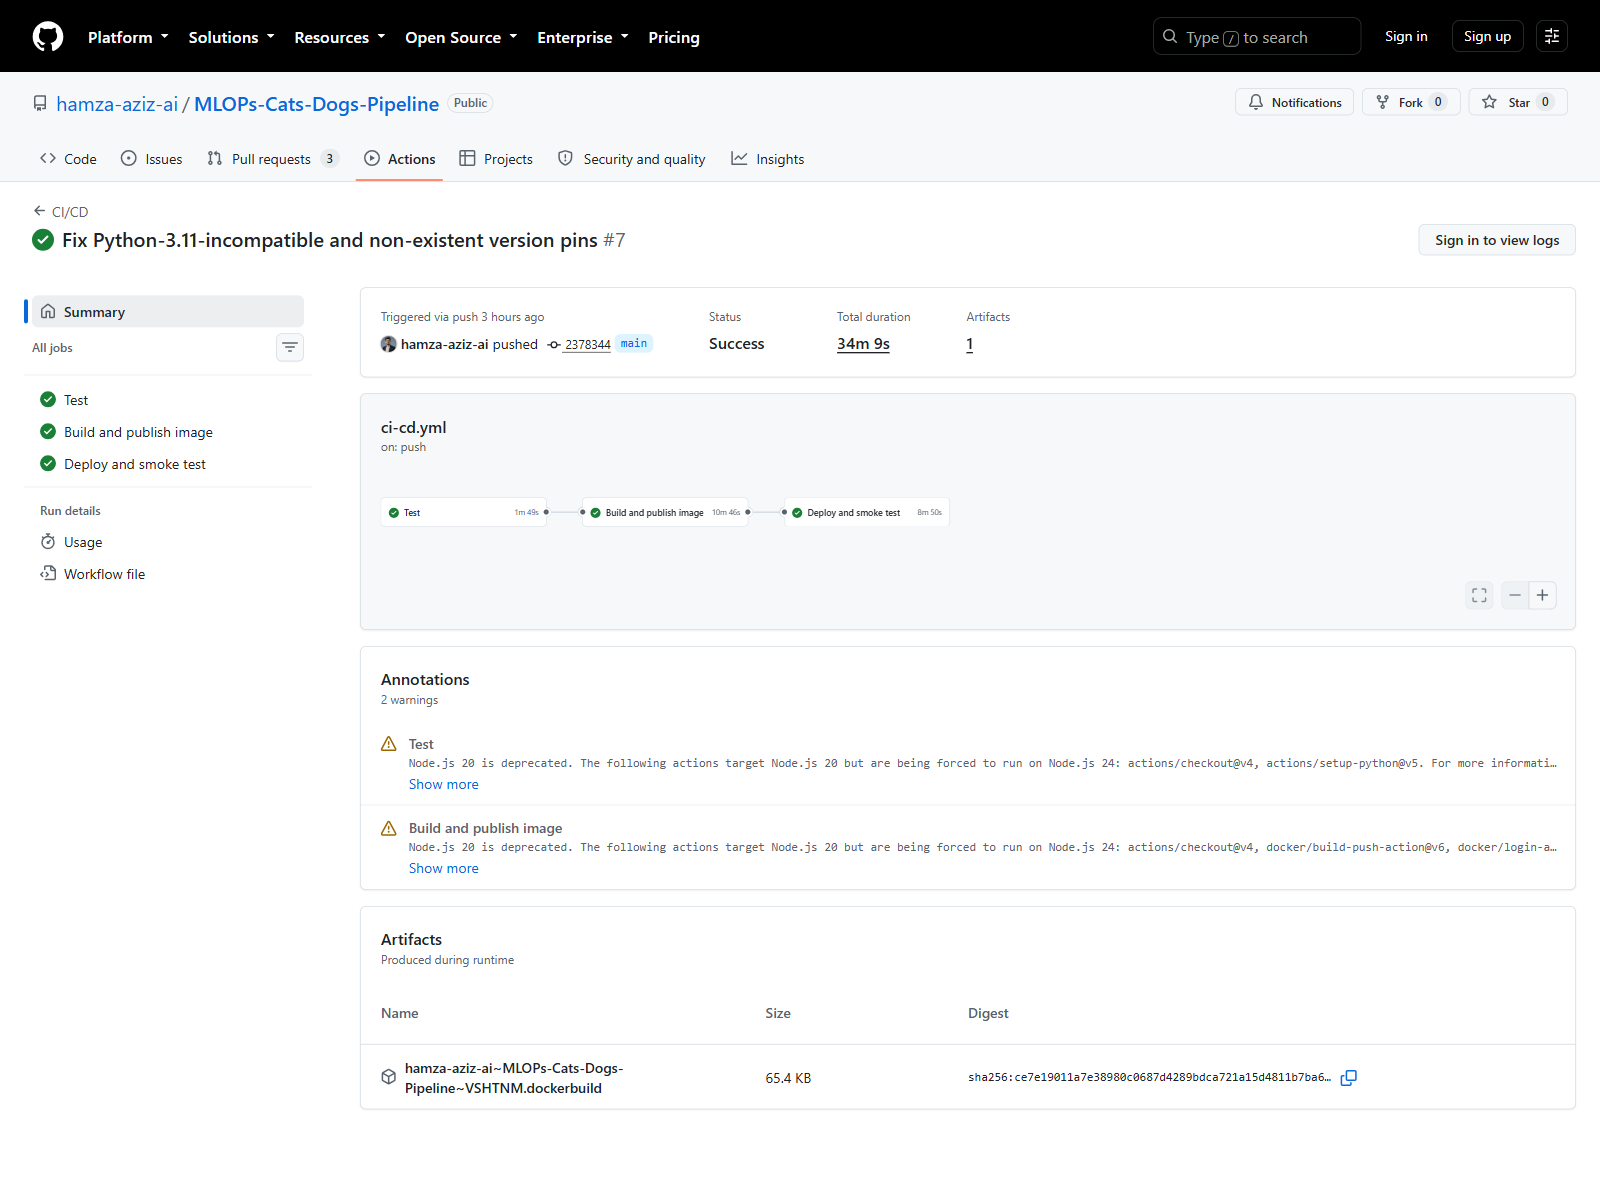
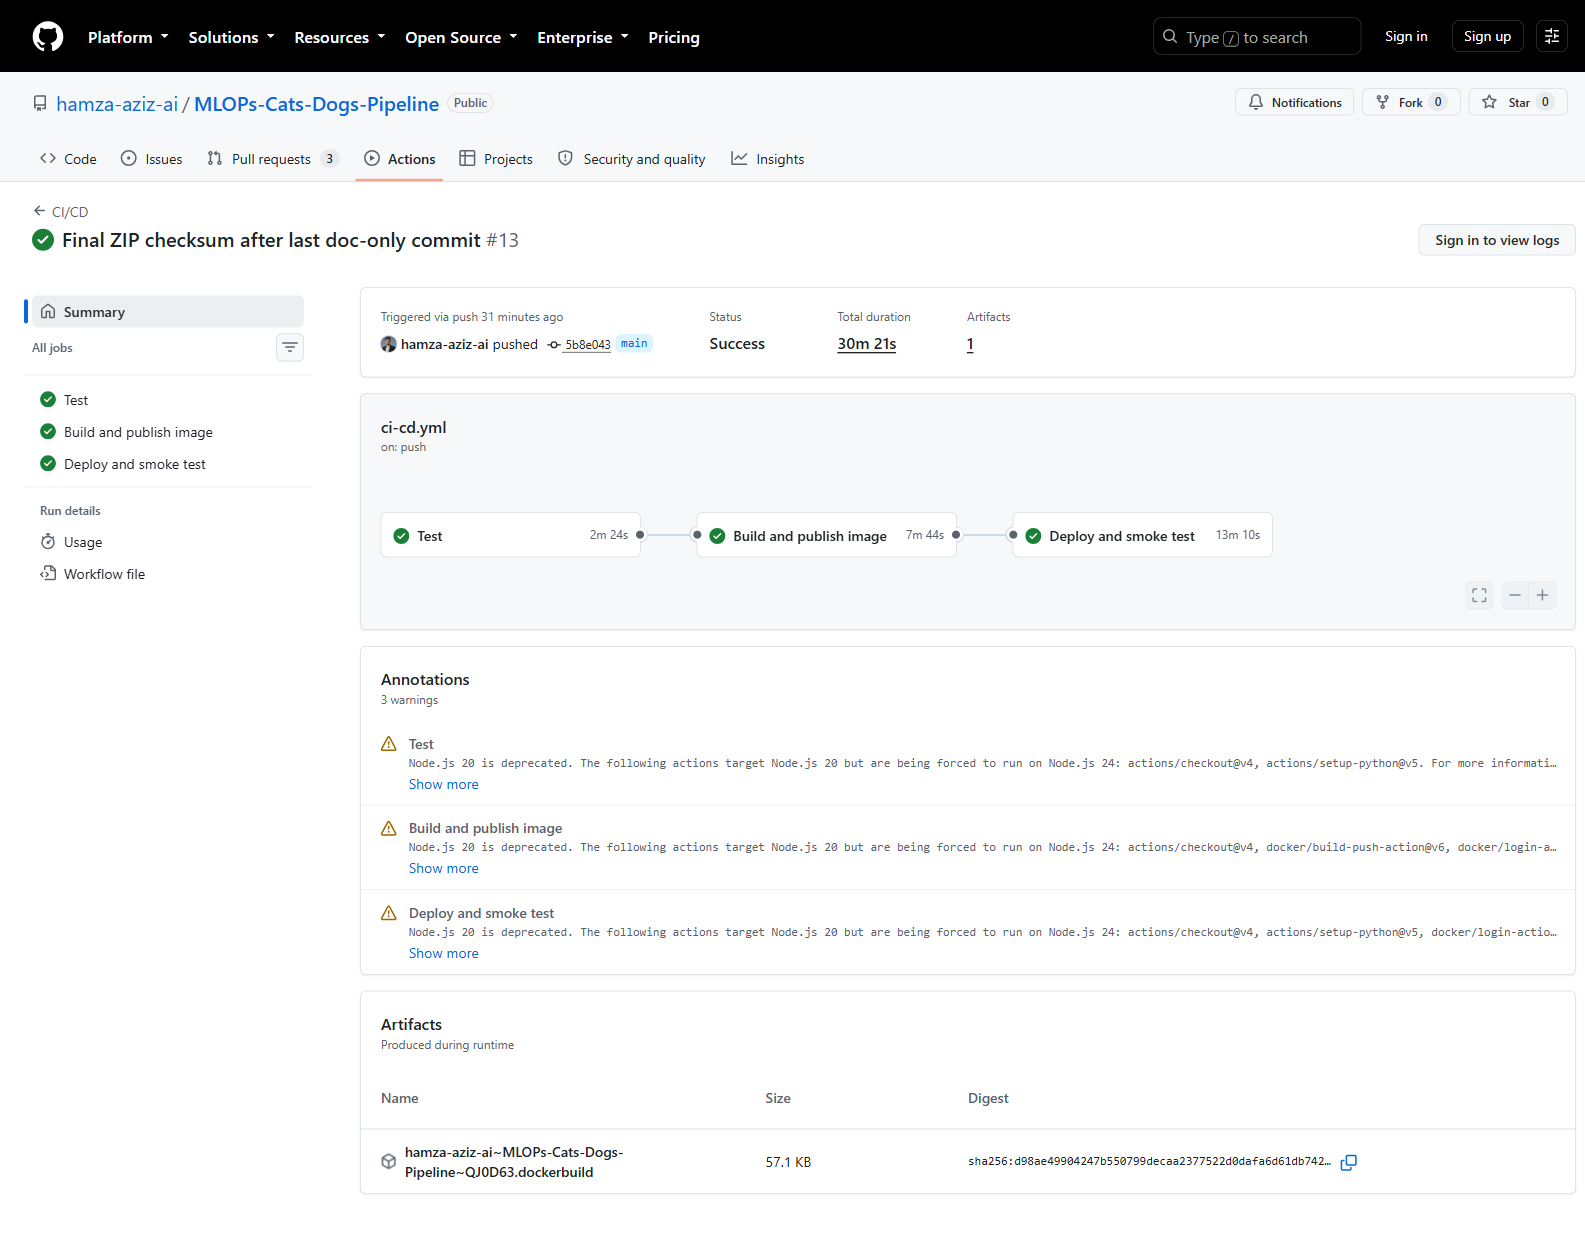
Point evidence at the actual final deployed build
Each doc-only push triggers its own CI/CD run with a fresh image
digest, so the digest/run recorded a few commits ago no longer matched
what's actually live. Updated CI run URL, deploy job URL, and image
digest to the build that's genuinely running right now (verified via
`docker inspect` against the deployed container), and retook the
GitHub Actions/GHCR screenshots against this final pushed state.

This is the last evidence-sync commit -- chasing the digest through
its own resulting CI run indefinitely doesn't converge, the same way
the ZIP checksum can't include the commit that records it.

diff --git a/SUBMISSION_REPORT.md b/SUBMISSION_REPORT.md
@@ -11,8 +11,8 @@
 | Assignment | Assignment 2 |
 | Semester tag | S2-25 |
 | GitHub repository | `https://github.com/hamza-aziz-ai/MLOPs-Cats-Dogs-Pipeline` |
-| CI run | `https://github.com/hamza-aziz-ai/MLOPs-Cats-Dogs-Pipeline/actions/runs/31689507647` |
-| Container image | `https://github.com/hamza-aziz-ai/MLOPs-Cats-Dogs-Pipeline/pkgs/container/mlops-cats-dogs-pipeline`, digest `sha256:02029143e1931a74b0deb3ac92fae06f2446b54ec00b4b0ba1319f20341ba697` |
+| CI run | `https://github.com/hamza-aziz-ai/MLOPs-Cats-Dogs-Pipeline/actions/runs/31706209711` |
+| Container image | `https://github.com/hamza-aziz-ai/MLOPs-Cats-Dogs-Pipeline/pkgs/container/mlops-cats-dogs-pipeline`, digest `sha256:8d6f10f8f231fe565944b5b4bd9bddd0a9a946438c879ccc8572d80578e2e0bf` |
[1 lines of base64/hex data omitted]
 
 ## 1. Source and scope
@@ -192,9 +192,9 @@ Verified local evidence:
 The workflow defines automated quality gates and image creation/publication under its configured events and permissions. Live M3 evidence:
 
 - GitHub repository: `https://github.com/hamza-aziz-ai/MLOPs-Cats-Dogs-Pipeline`
-- Successful GitHub Actions run: `https://github.com/hamza-aziz-ai/MLOPs-Cats-Dogs-Pipeline/actions/runs/31689507647`
+- Successful GitHub Actions run: `https://github.com/hamza-aziz-ai/MLOPs-Cats-Dogs-Pipeline/actions/runs/31706209711`
 - GHCR image: `https://github.com/hamza-aziz-ai/MLOPs-Cats-Dogs-Pipeline/pkgs/container/mlops-cats-dogs-pipeline`
-- GHCR immutable digest: `sha256:02029143e1931a74b0deb3ac92fae06f2446b54ec00b4b0ba1319f20341ba697`
+- GHCR immutable digest: `sha256:8d6f10f8f231fe565944b5b4bd9bddd0a9a946438c879ccc8572d80578e2e0bf`
 - **[SCREENSHOT: TEST/BUILD/PUBLISH JOBS PASSING]**
 
 Coverage is a useful gate but not proof of correctness. Future tests should add corrupt input, load failure, concurrency, resource limits, and rollback behavior.
@@ -216,8 +216,8 @@ Live remote M4 evidence:
 
 - Self-hosted runner: WSL2 Ubuntu 24.04 (x86_64), registered to this repository only, labels `self-hosted`/`linux` matching the workflow's `runs-on`.
 - **[SELF-HOSTED RUNNER SCREENSHOT]**
-- Successful main-branch deployment job: `https://github.com/hamza-aziz-ai/MLOPs-Cats-Dogs-Pipeline/actions/runs/31689507647/job/94416274227`
-- Deployed image digest: `sha256:02029143e1931a74b0deb3ac92fae06f2446b54ec00b4b0ba1319f20341ba697` (matches the M3 build)
+- Successful main-branch deployment job: `https://github.com/hamza-aziz-ai/MLOPs-Cats-Dogs-Pipeline/actions/runs/31706209711/job/94470326140`
+- Deployed image digest: `sha256:8d6f10f8f231fe565944b5b4bd9bddd0a9a946438c879ccc8572d80578e2e0bf` (matches the M3 build)
 - Remote Compose status: `api` and `prometheus` both `Up`/`healthy`; Prometheus target `cats-dogs-api` reported `up`
 - Remote `/health`: `{"status":"ready","model_loaded":true,"model_version":"1.0.0"}`
 - Remote `/predict` (real cat image): `{"label":"cats","confidence":0.582,...}`
@@ -346,10 +346,10 @@ docker compose down
 - 2024AC05133
 - S2-25
 - `https://github.com/hamza-aziz-ai/MLOPs-Cats-Dogs-Pipeline`
-- `https://github.com/hamza-aziz-ai/MLOPs-Cats-Dogs-Pipeline/actions/runs/31689507647`
+- `https://github.com/hamza-aziz-ai/MLOPs-Cats-Dogs-Pipeline/actions/runs/31706209711`
 - `https://github.com/hamza-aziz-ai/MLOPs-Cats-Dogs-Pipeline/pkgs/container/mlops-cats-dogs-pipeline`
-- `sha256:02029143e1931a74b0deb3ac92fae06f2446b54ec00b4b0ba1319f20341ba697`
-- `https://github.com/hamza-aziz-ai/MLOPs-Cats-Dogs-Pipeline/actions/runs/31689507647/job/94416274227`
+- `sha256:8d6f10f8f231fe565944b5b4bd9bddd0a9a946438c879ccc8572d80578e2e0bf`
+- `https://github.com/hamza-aziz-ai/MLOPs-Cats-Dogs-Pipeline/actions/runs/31706209711/job/94470326140`
[1 lines of base64/hex data omitted]
 - **[VIDEO URL OR FILENAME]**
 - **[SCREENSHOT: DVC REPRO AND CLEAN STATUS]**

diff --git a/SUBMISSION_CHECKLIST.md b/SUBMISSION_CHECKLIST.md
@@ -61,10 +61,10 @@ PDF scope: **unit tests, GitHub Actions, Docker build, GHCR publishing**.
 - [x] Create/select GitHub repository: **https://github.com/hamza-aziz-ai/MLOPs-Cats-Dogs-Pipeline**.
 - [x] Push final commit. Tag pending confirmed semester (see Identity section).
 - [x] Confirm Actions permissions include `contents: read` and `packages: write`.
-- [x] Run M3 successfully: **https://github.com/hamza-aziz-ai/MLOPs-Cats-Dogs-Pipeline/actions/runs/31689507647**.
+- [x] Run M3 successfully: **https://github.com/hamza-aziz-ai/MLOPs-Cats-Dogs-Pipeline/actions/runs/31706209711**.
 - [x] Confirm all unit-test and image-build jobs are green.
 - [x] Confirm package exists in GHCR: **https://github.com/hamza-aziz-ai/MLOPs-Cats-Dogs-Pipeline/pkgs/container/mlops-cats-dogs-pipeline**.
-- [x] Record immutable digest: **`sha256:02029143e1931a74b0deb3ac92fae06f2446b54ec00b4b0ba1319f20341ba697`**.
+- [x] Record immutable digest: **`sha256:8d6f10f8f231fe565944b5b4bd9bddd0a9a946438c879ccc8572d80578e2e0bf`**.
 - [x] Verify displayed digest matches the image intended for M4 deployment (same tag/digest pulled by the deploy job).
 - [x] Capture 8-passed/83%-coverage screenshot. (`docs/screenshots/E8_pytest_coverage.png`)
 - [x] Capture successful GitHub Actions test/build screenshot. (`docs/screenshots/E10_github_actions_run.png`)
@@ -86,8 +86,8 @@ PDF scope: **Docker Compose target; main-branch self-hosted Linux runner pulls/d
 - [x] Register the runner only to the trusted repository/organization (repo-scoped, not org-wide).
 - [x] Confirm runner labels match the workflow (`self-hosted`, `linux` — matches `runs-on: [self-hosted, linux]`).
 - [x] Confirm runner is online before the main-branch deployment.
-- [x] Complete remote pull/deploy/smoke: **https://github.com/hamza-aziz-ai/MLOPs-Cats-Dogs-Pipeline/actions/runs/31689507647/job/94416274227**.
-- [x] Confirm deployed image digest: **`sha256:02029143e1931a74b0deb3ac92fae06f2446b54ec00b4b0ba1319f20341ba697`**.
+- [x] Complete remote pull/deploy/smoke: **https://github.com/hamza-aziz-ai/MLOPs-Cats-Dogs-Pipeline/actions/runs/31706209711/job/94470326140**.
+- [x] Confirm deployed image digest: **`sha256:8d6f10f8f231fe565944b5b4bd9bddd0a9a946438c879ccc8572d80578e2e0bf`**.
 - [x] Verify remote Compose containers are healthy (`api` and `prometheus`, both `Up`/`healthy`).
 - [x] Verify remote `/health` and one cat/dog request (`/health` → `{"status":"ready","model_loaded":true}`; `/predict` on a real cat image → `{"label":"cats","confidence":0.582}`).
 - [x] Record endpoint/private-host note: **private host — student's own WSL2 Ubuntu self-hosted runner, `http://localhost:8000`, not publicly routable.**
@@ -202,9 +202,9 @@ docker compose down
 | Confirmed semester | S2-25 |
 | Final Git commit | **`896c4cd`** |
 | Release/tag | **`s2-25-aimlczg523-assignment2`** |
-| CI run | **https://github.com/hamza-aziz-ai/MLOPs-Cats-Dogs-Pipeline/actions/runs/31689507647** |
-| GHCR digest | **`sha256:02029143e1931a74b0deb3ac92fae06f2446b54ec00b4b0ba1319f20341ba697`** |
-| Deployment job | **https://github.com/hamza-aziz-ai/MLOPs-Cats-Dogs-Pipeline/actions/runs/31689507647/job/94416274227** |
+| CI run | **https://github.com/hamza-aziz-ai/MLOPs-Cats-Dogs-Pipeline/actions/runs/31706209711** |
+| GHCR digest | **`sha256:8d6f10f8f231fe565944b5b4bd9bddd0a9a946438c879ccc8572d80578e2e0bf`** |
+| Deployment job | **https://github.com/hamza-aziz-ai/MLOPs-Cats-Dogs-Pipeline/actions/runs/31706209711/job/94470326140** |
[1 lines of base64/hex data omitted]
 | Video | **[URL/FILENAME]** |
 | Submission time | **[DATE AND TIME WITH TIME ZONE]** |

diff --git a/README.md b/README.md
@@ -15,8 +15,8 @@ End-to-end MLOps implementation for binary image classification, prepared for BI
 | Semester tag | S2-25 |
 | Problem statement | `Problem-Statement.pdf` in the Assignment-2 course folder |
 | GitHub repository | `https://github.com/hamza-aziz-ai/MLOPs-Cats-Dogs-Pipeline` |
-| GitHub Actions run | `https://github.com/hamza-aziz-ai/MLOPs-Cats-Dogs-Pipeline/actions/runs/31689507647` |
-| GHCR image | `https://github.com/hamza-aziz-ai/MLOPs-Cats-Dogs-Pipeline/pkgs/container/mlops-cats-dogs-pipeline`, digest `sha256:02029143e1931a74b0deb3ac92fae06f2446b54ec00b4b0ba1319f20341ba697` |
+| GitHub Actions run | `https://github.com/hamza-aziz-ai/MLOPs-Cats-Dogs-Pipeline/actions/runs/31706209711` |
+| GHCR image | `https://github.com/hamza-aziz-ai/MLOPs-Cats-Dogs-Pipeline/pkgs/container/mlops-cats-dogs-pipeline`, digest `sha256:8d6f10f8f231fe565944b5b4bd9bddd0a9a946438c879ccc8572d80578e2e0bf` |
[1 lines of base64/hex data omitted]
 
 ## What this repository delivers
@@ -205,10 +205,10 @@ For a real remote run:
 
 1. Push the final repository to GitHub. — done: `https://github.com/hamza-aziz-ai/MLOPs-Cats-Dogs-Pipeline`
 2. Confirm Actions permissions include `contents: read` and `packages: write`. — confirmed in `.github/workflows/ci-cd.yml`'s per-job `permissions` blocks.
-3. Run M3 and retain the CI run URL. — `https://github.com/hamza-aziz-ai/MLOPs-Cats-Dogs-Pipeline/actions/runs/31689507647`
-4. Verify GHCR and record the image URL plus immutable digest. — `https://github.com/hamza-aziz-ai/MLOPs-Cats-Dogs-Pipeline/pkgs/container/mlops-cats-dogs-pipeline`, `sha256:02029143e1931a74b0deb3ac92fae06f2446b54ec00b4b0ba1319f20341ba697`
+3. Run M3 and retain the CI run URL. — `https://github.com/hamza-aziz-ai/MLOPs-Cats-Dogs-Pipeline/actions/runs/31706209711`
+4. Verify GHCR and record the image URL plus immutable digest. — `https://github.com/hamza-aziz-ai/MLOPs-Cats-Dogs-Pipeline/pkgs/container/mlops-cats-dogs-pipeline`, `sha256:8d6f10f8f231fe565944b5b4bd9bddd0a9a946438c879ccc8572d80578e2e0bf`
 5. Configure the M4 job only on a trusted Linux x64 self-hosted runner with Docker and Docker Compose installed. — done: WSL2 Ubuntu 24.04, repo-scoped runner.
-6. Retain the deployment job URL and remote health/smoke evidence. — `https://github.com/hamza-aziz-ai/MLOPs-Cats-Dogs-Pipeline/actions/runs/31689507647/job/94416274227`; remote `/health` returned `{"status":"ready","model_loaded":true}`, remote `/predict` on a real cat image returned `{"label":"cats","confidence":0.582}`.
+6. Retain the deployment job URL and remote health/smoke evidence. — `https://github.com/hamza-aziz-ai/MLOPs-Cats-Dogs-Pipeline/actions/runs/31706209711/job/94470326140`; remote `/health` returned `{"status":"ready","model_loaded":true}`, remote `/predict` on a real cat image returned `{"label":"cats","confidence":0.582}`.
 
 The M4 job needs a self-hosted Linux runner because Docker Compose must operate on the persistent target host. A GitHub-hosted runner is ephemeral and cannot be treated as that persistent deployment target. Never attach an untrusted self-hosted runner to a public repository or expose secrets in logs.
 

diff --git a/VIDEO_DEMO_SCRIPT.md b/VIDEO_DEMO_SCRIPT.md
@@ -63,7 +63,7 @@ curl.exe -X POST -F "image=@C:\path\to\sample.jpg" http://localhost:8000/predict
 
 **Say:**
 
-> M4 uses Docker Compose as the deployment target. The final local stack was verified with both the API and Prometheus containers healthy. Prometheus target `http://api:8000/metrics` reports up, and the post-deployment smoke passed. The remote workflow runs on the main branch on a trusted Linux x64 self-hosted runner, which pulls and deploys the image — here's the live deployment job at **[DEPLOYMENT JOB URL: `https://github.com/hamza-aziz-ai/MLOPs-Cats-Dogs-Pipeline/actions/runs/31689507647/job/94416274227`]**, with both containers healthy and a real cat/dog prediction against the deployed instance.
+> M4 uses Docker Compose as the deployment target. The final local stack was verified with both the API and Prometheus containers healthy. Prometheus target `http://api:8000/metrics` reports up, and the post-deployment smoke passed. The remote workflow runs on the main branch on a trusted Linux x64 self-hosted runner, which pulls and deploys the image — here's the live deployment job at **[DEPLOYMENT JOB URL: `https://github.com/hamza-aziz-ai/MLOPs-Cats-Dogs-Pipeline/actions/runs/31706209711/job/94470326140`]**, with both containers healthy and a real cat/dog prediction against the deployed instance.
 
 ## 3:03–3:38 — M5 monitoring, logs, and feedback
 
